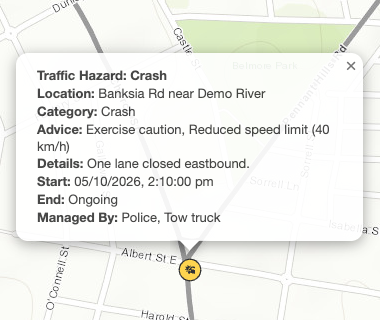
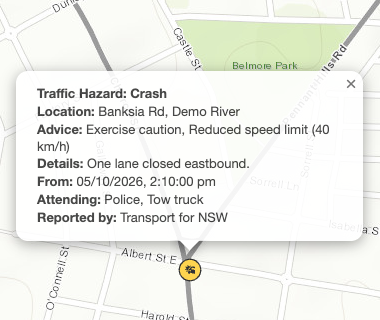
LAD: Transport NSW popups show only the fields the report has
Instead of "Unknown" rows, build the popup the way livetraffic.com does:
location from mainStreet/qualifier/crossStreet/secondLocation/
startRoadName plus suburb, "From"/"When" times (honouring hideEndDate),
last updated, attending groups only when non-blank, and "Reported by"
(the council via OrgName with its phone/email, else Transport for NSW).
Category is hidden when it repeats the title. Popup text is now
HTML-escaped, since council reports carry free text.

Changed region(s): [[0.0289, 0.1562, 0.9842, 0.375], [0.0868, 0.5312, 0.6079, 0.7188]]

diff --git a/src/pages/tasking/utils/transportHazard.js b/src/pages/tasking/utils/transportHazard.js
@@ -187,3 +187,77 @@ export function transportHazardAdvice(p) {
     .map((a) => (a === 'Reduced speed limit' && hasSpeed ? `${a} (${speed} km/h)` : a))
     .join(', ');
 }
+
+const clean = (v) => (typeof v === 'string' ? v.trim() : v == null ? '' : String(v).trim());
+
+// Live Traffic title-cases road names unless they carry a state code (e.g. "NSW").
+const roadName = (v) =>
+  ['NSW', 'ACT', 'NT', 'WA', 'QLD', 'VIC'].some((s) => v.includes(s))
+    ? v
+    : v.toLowerCase().replace(/\b./g, (c) => c.toUpperCase());
+
+/** "Main St at Cross St, Suburb", built the way livetraffic.com does. Empty when unknown. */
+export function transportHazardLocation(p) {
+  const r = p?.roads?.[0];
+  if (!r) return '';
+  const main = clean(r.mainStreet);
+  const cross = clean(r.crossStreet);
+  const second = clean(r.secondLocation);
+  const start = clean(r.startRoadName);
+  const qualifier = clean(r.locationQualifier).toLowerCase();
+  const join = (...parts) => parts.filter(Boolean).join(' ');
+
+  let where = '';
+  if (main && start && main !== start) where = `${roadName(main)} near ${start}`;
+  else if (main && cross && second) where = join(roadName(main), qualifier, roadName(cross), 'and', roadName(second));
+  else if (main && (cross || second)) where = join(roadName(main), qualifier, roadName(cross || second));
+  else if (main) where = roadName(main);
+
+  const suburb = clean(r.suburb);
+  return [where, suburb].filter(Boolean).join(', ');
+}
+
+const formatTime = (v) => {
+  if (!v) return '';
+  const d = new Date(v);
+  return Number.isNaN(d.getTime()) ? '' : d.toLocaleString();
+};
+
+/**
+ * The popup rows for a hazard, as [label, text] pairs. Like livetraffic.com,
+ * fields the feed leaves empty are left out rather than shown as "Unknown".
+ * Council reports say which council reported them, with its contact details.
+ */
+export function transportHazardRows(f, { council = false } = {}) {
+  const p = f?.properties || {};
+  const rows = [];
+  const add = (label, text) => {
+    const t = clean(text);
+    if (t) rows.push([label, t]);
+  };
+
+  add('Location', transportHazardLocation(p));
+  if (clean(p.mainCategory) !== clean(p.displayName)) add('Category', p.mainCategory);
+  add('Advice', transportHazardAdvice(p));
+  add('Details', p.otherAdvice);
+  const extra = (Array.isArray(p.additionalInfo) ? p.additionalInfo : []).map(clean).filter(Boolean);
+  add('More info', extra.join('; '));
+
+  const start = formatTime(p.start);
+  const end = formatTime(p.end);
+  if (start && (p.hideEndDate || !end)) add('From', start);
+  else if (start && end) add('When', start === end ? start : `${start} to ${end}`);
+  else add('Until', end);
+  add('Last updated', formatTime(p.lastUpdated));
+
+  const attending = (Array.isArray(p.attendingGroups) ? p.attendingGroups : []).map(clean).filter(Boolean);
+  add('Attending', attending.join(', '));
+  if (council || p.OrgName) {
+    add('Reported by', p.OrgName || 'Local council');
+    add('Council phone', p.OrgContact);
+    add('Council email', p.OrgEmail);
+  } else {
+    add('Reported by', 'Transport for NSW');
+  }
+  return rows;
+}

diff --git a/src/pages/tasking/utils/transportHazard.test.js b/src/pages/tasking/utils/transportHazard.test.js
@@ -4,6 +4,8 @@ import {
   transportHazardAdvice,
   transportHazardColour,
   transportHazardIcon,
+  transportHazardLocation,
+  transportHazardRows,
   transportHazardShapes,
 } from './transportHazard.js';
 
@@ -164,5 +166,59 @@ describe('transportHazardAdvice', () => {
     );
     expect(transportHazardAdvice({ adviceA: 'Road closed', speedLimit: -1 })).toBe('Road closed');
     expect(transportHazardAdvice({})).toBe('');
+  });
+});
+
+describe('transportHazardLocation', () => {
+  it('builds the location like Live Traffic', () => {
+    const at = (road) => transportHazardLocation({ roads: [road] });
+    expect(
+      at({ mainStreet: 'PACIFIC HWY', locationQualifier: 'At', crossStreet: 'BANKSIA RD', suburb: 'Demo River' }),
+    ).toBe('Pacific Hwy at Banksia Rd, Demo River');
+    expect(
+      at({ mainStreet: 'OLD FERRY RD', locationQualifier: 'between', crossStreet: 'A ST', secondLocation: 'B ST' }),
+    ).toBe('Old Ferry Rd between A St and B St');
+    expect(at({ mainStreet: 'M1 NSW', startRoadName: 'Exit 5' })).toBe('M1 NSW near Exit 5');
+    expect(at({ suburb: 'Demo Flats' })).toBe('Demo Flats');
+    expect(transportHazardLocation({})).toBe('');
+  });
+});
+
+describe('transportHazardRows', () => {
+  const labels = (rows) => rows.map(([label]) => label);
+
+  it('leaves out empty fields instead of showing Unknown', () => {
+    const rows = transportHazardRows(feature({ displayName: 'Hazard', mainCategory: 'Hazard', speedLimit: -1 }));
+    expect(rows).toEqual([['Reported by', 'Transport for NSW']]);
+  });
+
+  it('shows the council and its contacts for council reports', () => {
+    const rows = transportHazardRows(
+      feature({
+        displayName: 'Flooding',
+        mainCategory: 'Flooding',
+        adviceA: 'Road closed',
+        start: '2026-10-05T08:30:00+11:00',
+        hideEndDate: true,
+        attendingGroups: [' '],
+        OrgName: 'Demo Shire Council',
+        OrgContact: '02 0000 0000',
+      }),
+      { council: true },
+    );
+    expect(labels(rows)).toEqual(['Advice', 'From', 'Reported by', 'Council phone']);
+    expect(rows[2][1]).toBe('Demo Shire Council');
+  });
+
+  it('shows a start-to-end range and attending groups', () => {
+    const rows = transportHazardRows(
+      feature({
+        start: '2026-10-05T08:30:00+11:00',
+        end: '2026-10-05T12:00:00+11:00',
+        attendingGroups: ['Police', 'Tow truck'],
+      }),
+    );
+    expect(labels(rows)).toEqual(['When', 'Attending', 'Reported by']);
+    expect(rows[1][1]).toBe('Police, Tow truck');
   });
 });

diff --git a/src/pages/tasking/mapLayers/transport.js b/src/pages/tasking/mapLayers/transport.js
@@ -1,11 +1,14 @@
 import BeaconClient from '../../../shared/BeaconClient.js';
 import L from "leaflet";
 import {
-  transportHazardAdvice,
   transportHazardColour,
   transportHazardIcon,
+  transportHazardRows,
   transportHazardShapes,
 } from "../utils/transportHazard.js";
+
+const escapeHtml = (v) =>
+  String(v).replace(/[&<>"']/g, (c) => ({ "&": "&amp;", "<": "&lt;", ">": "&gt;", '"': "&quot;", "'": "&#39;" })[c]);
 
 
 export function registerTransportCamerasLayer(vm, map, getToken, apiHost, params) {
@@ -100,37 +103,12 @@ export function registerTransportIncidentsLayer(vm, map, getToken, apiHost, para
         const colour = transportHazardColour(f, { council });
         const popupTitle = council ? "Council Report" : "Traffic Hazard";
 
-        const details = `
-          <strong>${popupTitle}: ${f.properties.displayName || "Unknown"}</strong>
-          <br>
-          <strong>Location:</strong> ${f.properties.roads?.[0]?.mainStreet || "Unknown"}
-          ${f.properties.roads?.[0]?.locationQualifier || ""}
-          ${f.properties.roads?.[0]?.suburb || ""}
-          <br>
-          <strong>Category:</strong> ${f.properties.mainCategory || "Unknown"}
-          <br>
-          <strong>Advice:</strong> ${transportHazardAdvice(f.properties) || "None"}
-          <br>
-          <strong>Details:</strong> ${
-            f.properties.otherAdvice || "No additional details available."
-          }
-          <br>
-          <strong>Start:</strong> ${
-            f.properties.start ? new Date(f.properties.start).toLocaleString() : "Unknown"
-          }
-          <br>
-          <strong>End:</strong> ${
-            f.properties.hideEndDate
-              ? "Ongoing"
-              : f.properties.end
-              ? new Date(f.properties.end).toLocaleString()
-              : "Unknown"
-          }
-          <br>
-          <strong>Managed By:</strong> ${
-            f.properties.attendingGroups?.join(", ") || "Unknown"
-          }
-        `;
+        const details = [
+          `<strong>${escapeHtml(popupTitle)}: ${escapeHtml(f.properties.displayName || f.properties.mainCategory || "Incident")}</strong>`,
+          ...transportHazardRows(f, { council }).map(
+            ([label, text]) => `<strong>${escapeHtml(label)}:</strong> ${escapeHtml(text)}`,
+          ),
+        ].join("<br>");
 
         // Affected areas and stretches of road, as Live Traffic draws them; click for the same popup.
         areas.forEach((rings) => {

diff --git a/docs/lad/situation-map.md b/docs/lad/situation-map.md
@@ -67,7 +67,7 @@ Some overlays drop their own markers on the map. Click one to open a popup with 
 
 | Overlay | Marker | Click it to see |
 | --- | --- | --- |
-| **Transport NSW Incidents** | Live Traffic icon for the type of incident (crash, hazard, breakdown, traffic lights out, changed conditions, flooding, fire, bad weather, snow and ice) | What happened, where, traffic advice (with the speed limit when it's reduced), start/end time and who is managing it. Council reports are titled *Council Report* |
+| **Transport NSW Incidents** | Live Traffic icon for the type of incident (crash, hazard, breakdown, traffic lights out, changed conditions, flooding, fire, bad weather, snow and ice) | What happened, where, traffic advice (with the speed limit when it's reduced), when it started and ends, who is attending and who reported it. Council reports are titled *Council Report* and show the council's name and contact details. Details the report doesn't include are left out |
 | **Transport NSW Cameras** | Camera icon | What the camera faces and its latest image (click the image to enlarge it) |
 | **HazardWatch Active Warnings** | Warning icon in the middle of each warning area | The full published warning. Clicking anywhere in the area also works |
 | **SES Units** | SES logo at each unit headquarters | The unit's status (Monitoring, Not Monitoring or Unavailable), its active teams and incidents, SRB accreditations and contacts |

diff --git a/docs/whats-new/index.md b/docs/whats-new/index.md
@@ -25,7 +25,7 @@ The home page shows the first three `##` entries, so keep the title short.
 - The **Transport NSW Incidents** overlay now also shows road closures and hazards reported by local councils, such as regional road closures and flooded causeways. Their popups are titled *Council Report*. The separate **Transport NSW Council Reports** overlay has been folded into it. See [Clickable Overlay Markers](https://lighthouse.ses.nsw.gov.au/guides/lad/situation-map.html#clickable-overlay-markers).
 - Transport NSW incident markers use the same icons as Live Traffic NSW, so flooding, fire, bad weather, and snow and ice each have their own icon instead of the general hazard icon.
 - Closed or affected stretches of road are drawn on the map as coloured lines, and affected areas as shaded areas, as on Live Traffic NSW. Click one for the incident's details.
-- Transport NSW incident popups no longer show *Speed Limit: -1 km/h*. The speed limit now appears in the advice, only when it has been reduced.
+- Transport NSW incident popups no longer show *Speed Limit: -1 km/h* or a list of *Unknown* fields. They show only the details the report includes, the way Live Traffic NSW does, and the speed limit appears in the advice only when it has been reduced. Popups also say who reported the incident, and council reports include the council's contact details.
 
 ## LAD incident photo icon fix
 
